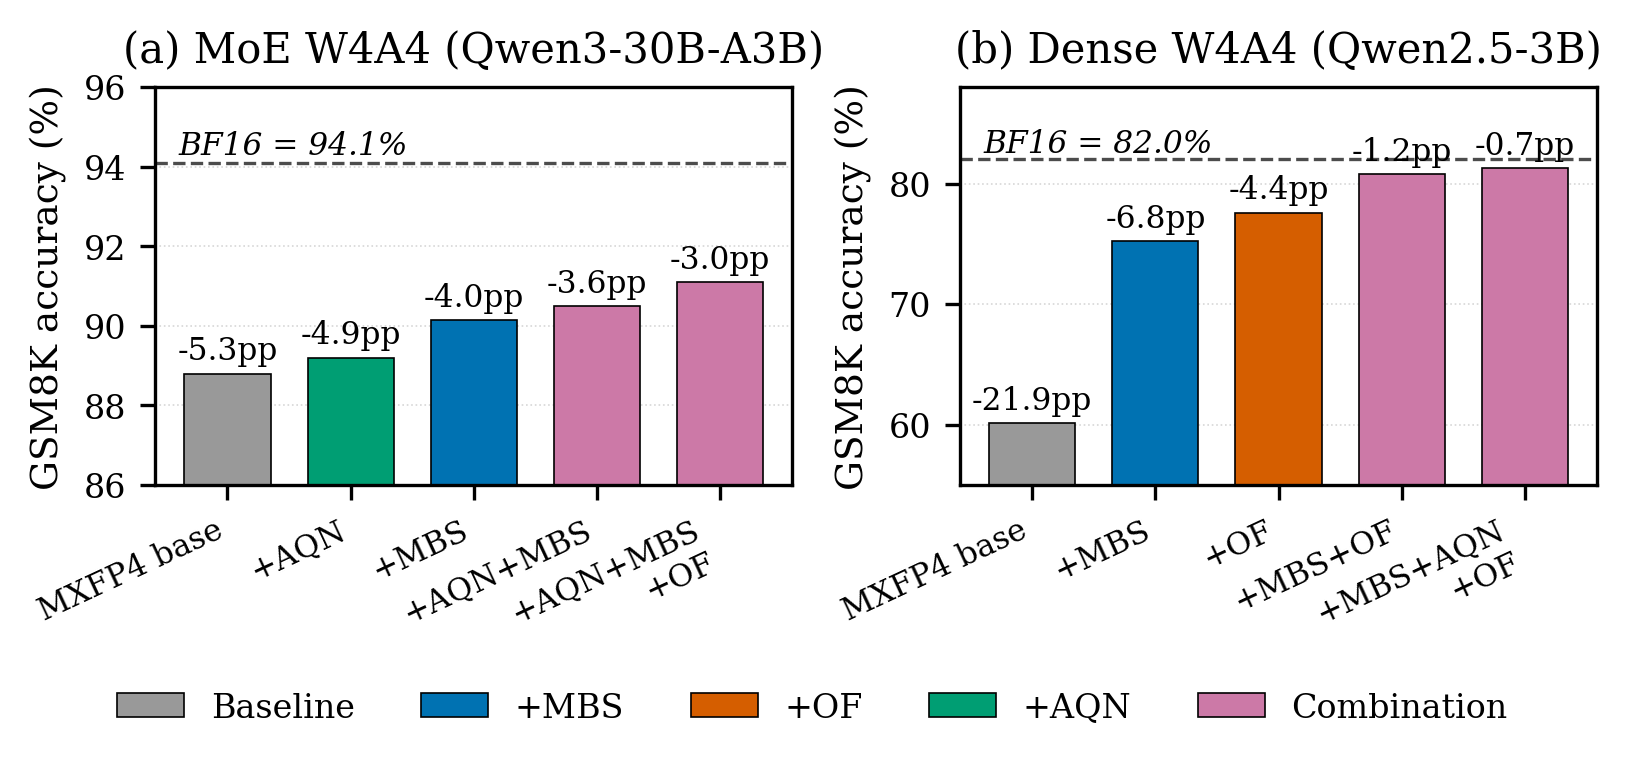
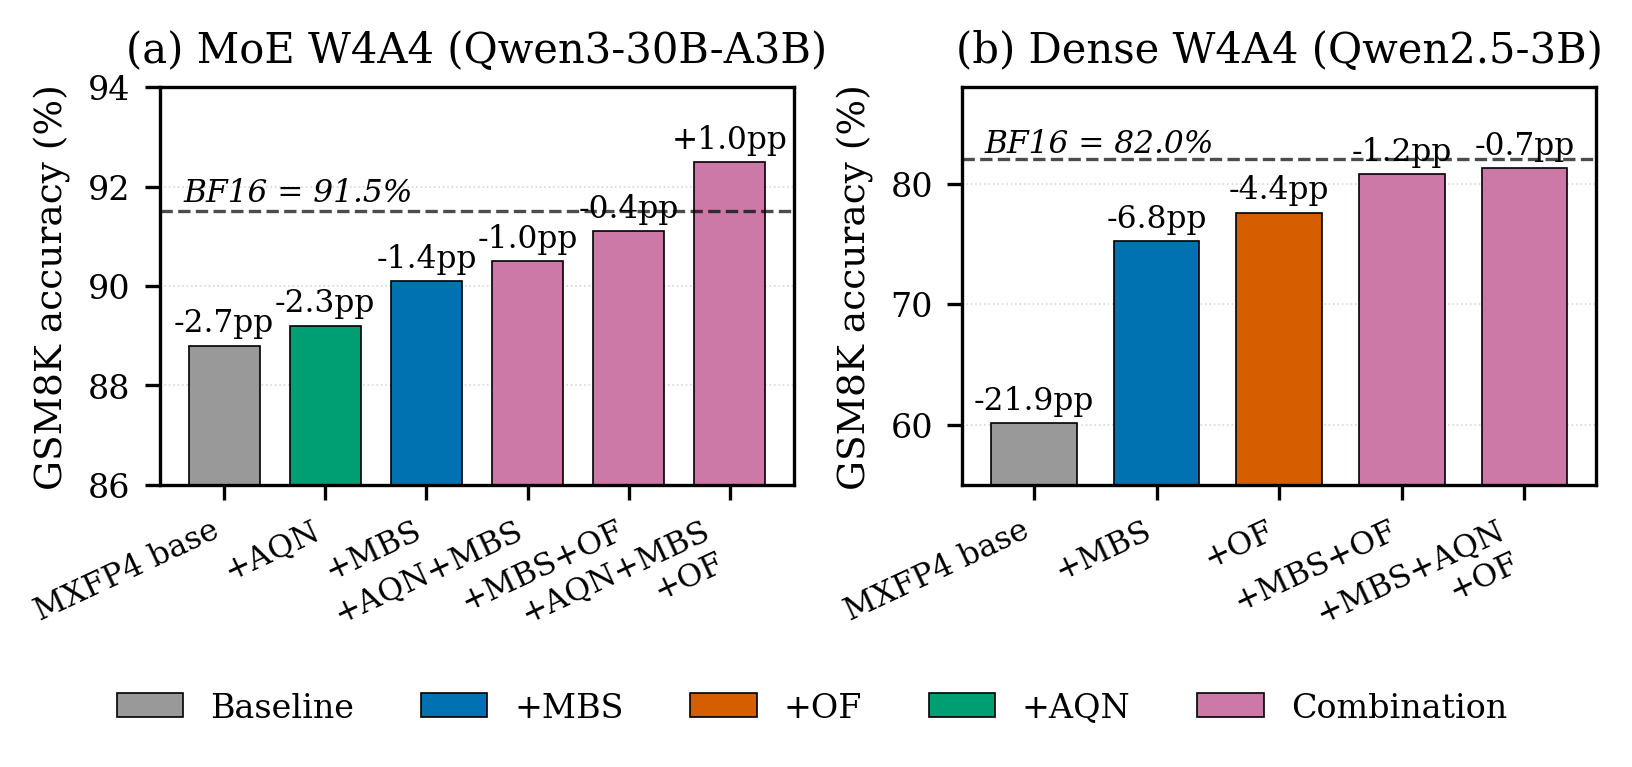
Update MXFP4 blog posts: row swap, alpha-drift mechanism, long-CoT scope
- TL;DR and MoE table: 92.49% / +1.0 pp now correctly attributed to
  +AQN+MBS+OF (alpha = 0.5), not MBS+OF without AQN (paper Table 2
  row swap propagated to both English and Chinese posts).
- OF section: append a paragraph after the alpha-sensitivity table
  explaining the rollout-training drift-minimization mechanism --
  alpha = 0.5 minimizes the U-shaped drift curve, which is why it
  also maximizes downstream accuracy.
- New Scope sub-section before Takeaways: long responses are harder
  to recover under the current recipe due to autoregressive
  trajectory divergence; framed as scope-limited future work
  (likely needing W4A8 / higher activation precision).
- Refresh fig4_ablation.png with the regenerated chart that uses
  the new BF16 = 91.51% baseline and the swapped bolded best row.

EN and ZH posts updated in parallel; captions stayed factually
correct so no caption edits were needed.

diff --git a/blog/content/posts/mxfp4-quantization-error-decomposition.md b/blog/content/posts/mxfp4-quantization-error-decomposition.md
@@ -22,7 +22,7 @@ We prove that the MXFP4 error is **exactly the sum of three components with disj
 Each correction targets one mechanism: **MBS** (macro-block scaling) kills the scale bias, **OF** (outlier fallback with blend $\alpha=0.5$) recovers the deadzone, and **AQN** controls the residual grid noise. Validated on Qwen2.5-3B and Qwen3-30B-A3B-Base:
 
 - **Dense**: recovers BF16 within $-0.7$ pp (81.3% vs. 82.0%)
-- **MoE**: **MBS + OF exceeds BF16 by $+1.0$ pp** (92.49% vs. 91.51%)
+- **MoE**: **AQN+MBS+OF ($\alpha=0.5$) exceeds BF16 by $+1.0$ pp** (92.49% vs. 91.51%)
 
 ---
 
@@ -168,6 +168,8 @@ We introduce the **residual-blend coefficient $\alpha$**. Setting $\alpha = 1$ a
 | **0.5** (default) | **91.58%** | **92.49%** |
 | 1.0 | 90.45% | 90.45% |
 
+There's also a *training-dynamics* reason for $\alpha = 0.5$. In a controlled single-step isolation run (OF only, MBS/AQN disabled, learning rate 0, fixed prompts so $\alpha$ is the only varying quantity), the rollout-vs-training numerical drift is **U-shaped in $\alpha$ with a clean minimum at $0.5$** — both extremes ($\alpha=0$ and $\alpha=1$) incur ${\sim}1.5$–$2\times$ the drift. A half-strength residual best aligns the rollout fake-quantization grid with the training grid; because RL post-training is drift-sensitive, the $\alpha$ that minimizes drift is also the $\alpha$ that maximizes downstream accuracy.
+
 ### AQN — Adaptive Quantization Noise
 
 After MBS and OF, the residual error is dominated by grid noise — static and unannealed. **AQN** injects controlled Gaussian noise on weights before each rollout with an exponential decay schedule from $\sigma_{\mathrm{start}} = 1\%$ to $\sigma_{\mathrm{end}} = 0.1\%$. This converts the constant grid temperature into a *annealable* exploration signal.
@@ -194,10 +196,10 @@ All experiments are W4A4 QDQ emulation — numerically faithful to native MXFP4 
 | +OF | | | ✓ | 90.3 | −1.2 |
 | +AQN(1%) | ✓ | | | 89.2 | −2.3 |
 | +AQN+MBS | ✓ | ✓ | | 90.5 | −1.0 |
-| +AQN+MBS+OF | ✓ | ✓ | ✓ | 91.1 | −0.4 |
-| **+MBS+OF ($\alpha=0.5$)** | | ✓ | ✓ | **92.49** | **+1.0** |
+| +MBS+OF | | ✓ | ✓ | 91.1 | −0.4 |
+| **+AQN+MBS+OF ($\alpha=0.5$)** | ✓ | ✓ | ✓ | **92.49** | **+1.0** |
 
-**MBS + OF (no AQN, $\alpha = 0.5$) exceeds BF16 by +1.0 pp** — the new best recipe.
+**AQN+MBS+OF ($\alpha = 0.5$) exceeds BF16 by +1.0 pp** — the new best recipe.
 
 ### Dense results (Qwen2.5-3B, BF16 = 82.0%)
 
@@ -222,6 +224,10 @@ This is exactly the prediction of the decomposition — deadzone is a *forward-p
 ### Training dynamics: AQN prevents entropy collapse
 
 {{< figure src="/blog/images/mxfp4-decomposition/fig3_training_dynamics.png" alt="Training dynamics" caption="Figure 6: MoE GSM8K training dynamics. Baseline policy entropy collapses from 1.71 to 0.35 by step 50 (premature convergence). AQN+MBS sustains entropy at 0.61, with gradient norm 0.24 vs. baseline 0.16. The grid-noise → temperature widening predicted by theory is confirmed empirically." >}}
+
+### Scope: the floor that averages out in short responses compounds in long ones
+
+The "grid noise averages out over full responses" argument holds for short-to-medium responses (GSM8K, ~280 tokens / 1024-token budget). It reaches its limit as responses lengthen: holding the recipe family fixed, per-step rollout–training Pearson correlation is essentially identical on a short task (GSM8K) and a long one (DAPO-MATH, ~795 tokens) — yet outcomes diverge sharply, and on multi-thousand-token CoT the same recipe under-recovers substantially. The mechanism is an autoregressive trajectory fork under deterministic greedy decoding: a single early arg-max flip from quantization noise compounds into a different solution path. We treat long-CoT fidelity as scope-limited future work for this recipe (likely needing higher activation precision, e.g. W4A8).
 
 ---
 